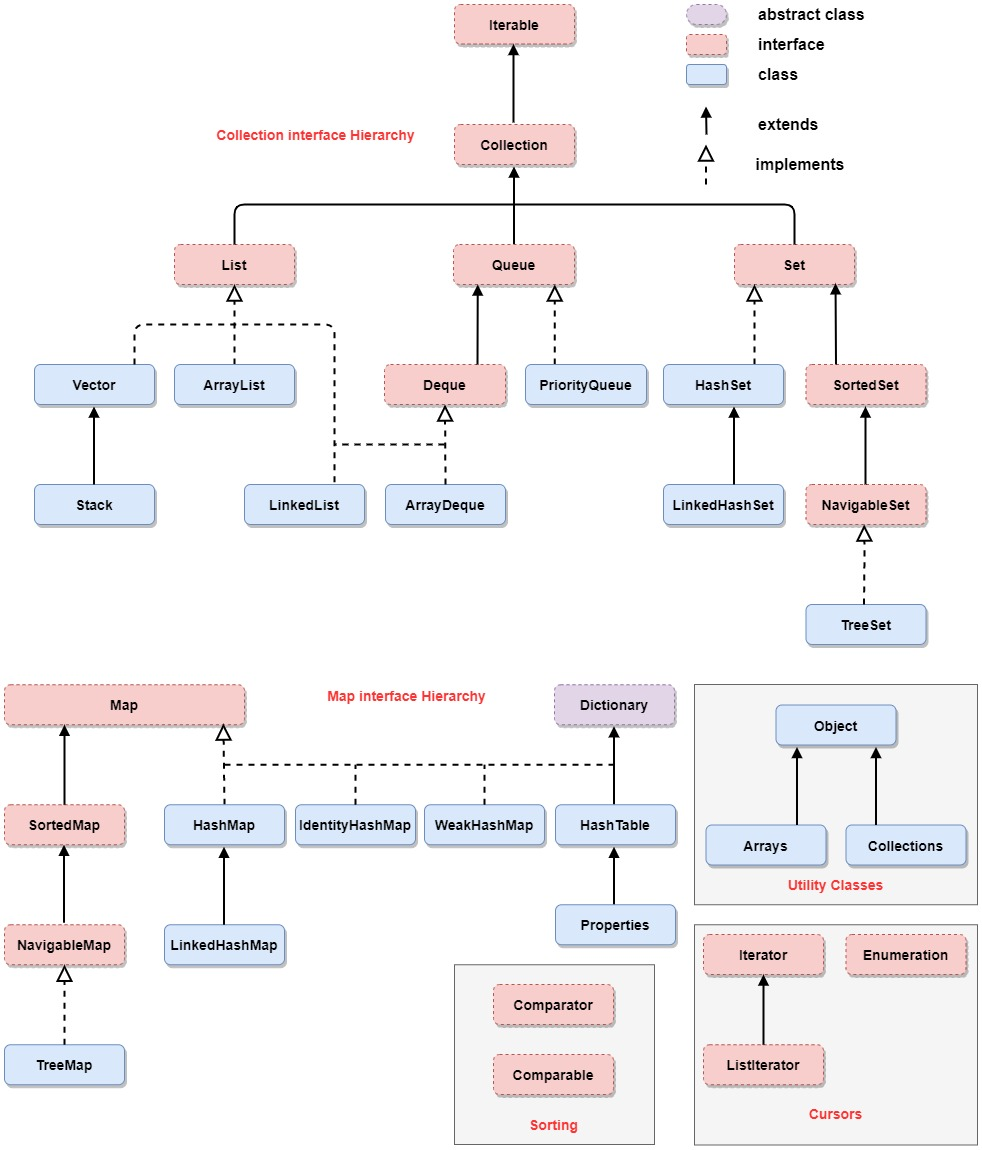
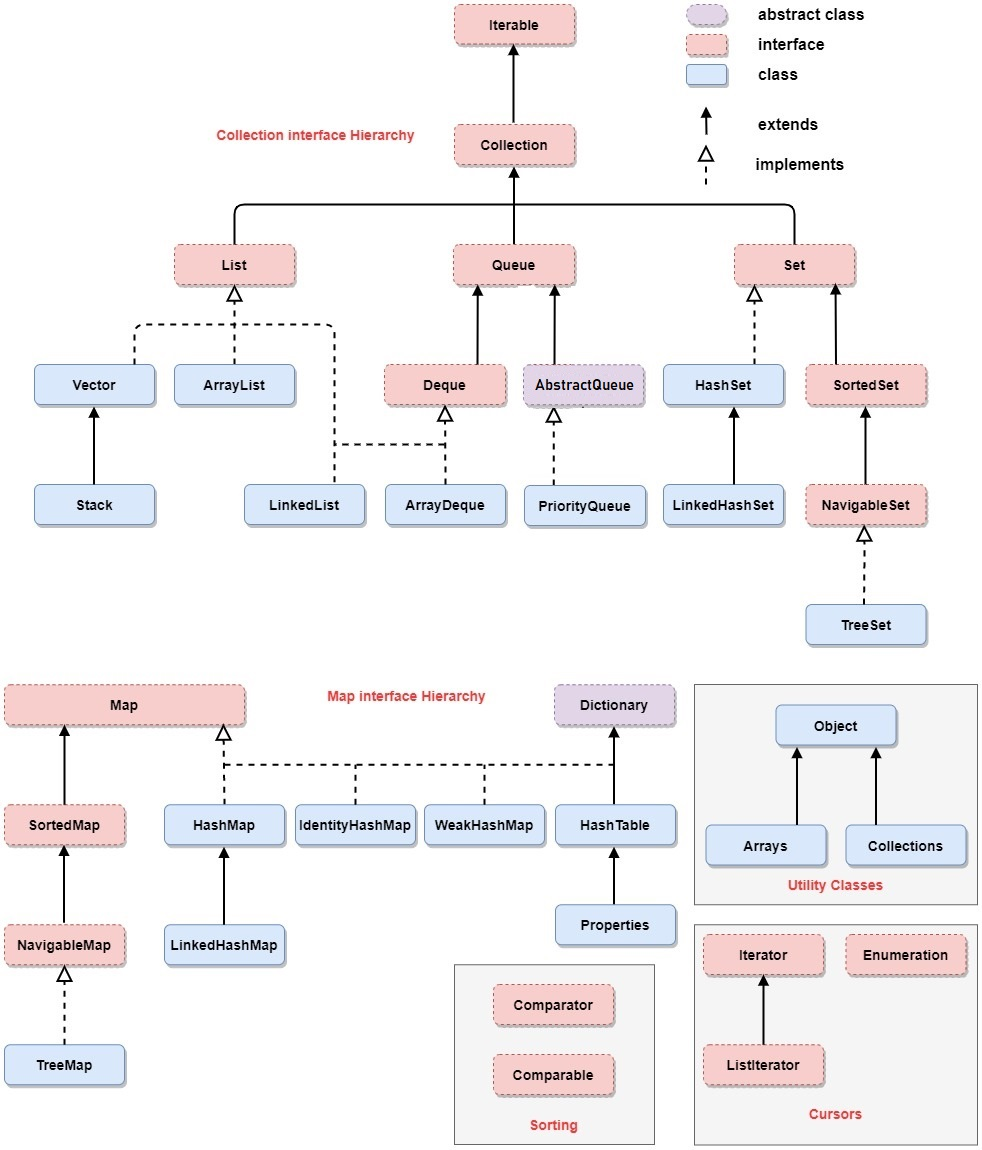
basic: collection queue

diff --git a/basics/core/src/main/java/collection/queue/abstactQueue/PriorityQueue.java b/basics/core/src/main/java/collection/queue/abstactQueue/PriorityQueue.java
@@ -1,0 +1,46 @@
+package collection.queue.abstactQueue;
+
+import java.util.AbstractQueue;
+
+/**
+ * PriorityQueue — это специальный вид очереди, в которой испоьзуется натуральная сортировка
+ * или та, которую мы описываем с помощью Comparable или Comparator.
+ * Таким образом используется тот элемент из очереди, приоритет которго выше.
+ *<p>
+ * Класс PriorityQueue был введен в Java 1.5 и является частью Java Collections Framework.
+ * PriorityQueue является неограниченной очередью.
+ * Элементы упорядочены по умолчанию в естественном порядке или же отсортированы с помощью компаратора.
+ * PriorityQueue не позволяет добавлять null-значения и non-comparable объекты.
+ * Размер приоритетной очереди (PriorityQueue) неограничен, но мы можем указать начальный размер в момент его создания.
+ * Когда мы добавляем элементы в приоритетную очередь, её размер увеличивается автоматически.
+ * PriorityQueue не является потобезопасной!
+ * Для этих целей в Java реализован класс PriorityBlockingQueue,
+ * реализующий интерфейс BlockingQueue. Именно он используется в многопоточной среде.
+ * В PriorityQueue добавление/удаление элементов происходит за время O(log(n)).
+ */
+
+public class PriorityQueue {
+   public static void main(String[] args) {
+      AbstractQueue<Integer> priorityQueue = new java.util.PriorityQueue<>();
+      priorityQueue.add(4);
+      priorityQueue.add(1);
+      priorityQueue.add(7);
+      priorityQueue.add(10);
+      priorityQueue.add(8);
+      System.out.println(priorityQueue.peek()); // 1
+      while (!priorityQueue.isEmpty()) System.out.print(priorityQueue.poll() + " "); // 1 4 7 8 10
+      System.out.println("\n");
+
+
+      // Изменение порядка вывода с помощью компаратора
+      AbstractQueue<Integer> queue = new java.util.PriorityQueue<>((o1, o2) -> o2 - o1);
+      queue.add(4);
+      queue.add(1);
+      queue.add(7);
+      queue.add(10);
+      queue.add(8);
+      System.out.println(queue.peek()); // 10
+      while (!queue.isEmpty()) System.out.print(queue.poll() + " "); // 10 8 7 4 1
+      System.out.println("\n");
+   }
+}

diff --git a/basics/core/src/main/java/collection/queue/abstactQueue/BlockingQueueSample.java b/basics/core/src/main/java/collection/queue/abstactQueue/BlockingQueueSample.java
@@ -1,0 +1,57 @@
+package collection.queue.abstactQueue;
+
+import java.util.concurrent.ArrayBlockingQueue;
+
+/**
+ * BlockingQueue - это очередь Queue со следующими дополнениями:
+ * Блокирующая операция take() - берет следующий элемент,
+ * если же очередь пустая - блокирует выполнение до появления элемента (до момента, когда перестанет быть пустой)
+ * Блокирующая операция put(E e) - помещает элемент в очередь,
+ * если очередь заполнена - блокирует выполнение до освобождения места в очереди и
+ * успешного помещения в нее нового элемента.
+ */
+public class BlockingQueueSample {
+   public static void main(String[] args) {
+      ArrayBlockingQueue<String> queue = new ArrayBlockingQueue<>(3);
+
+      Thread producer = new Thread(() -> {
+         String[] words = {"123", "abc", "qwerty", "queue", "stack", "array", "list"};
+         for (int i = 0; i < words.length && !Thread.interrupted();) {
+            try {
+               Thread.sleep(5000);
+               queue.put(words[i]);
+               System.out.println(
+                   "producer: queued up " + words[i] +
+                   ", number of elements in the queue: " + queue.size());
+               i++;
+            } catch (InterruptedException e) {
+               e.printStackTrace();
+            }
+         }
+      });
+
+      Thread consumer = new Thread(() -> {
+         StringBuilder sb = new StringBuilder();
+         while (!Thread.interrupted()) {
+            try {
+               sb.setLength(0);
+               Thread.sleep(8000);
+               sb.append(queue.take());
+               System.out.println(
+                   "consumer: processed from the queue " + sb.reverse() +
+                   ", number of elements in the queue: " + queue.size());
+            } catch (InterruptedException e) {
+               e.printStackTrace();
+            }
+         }
+      });
+
+      producer.start();
+      try {
+         Thread.sleep(5000);
+      } catch (InterruptedException e) {
+         e.printStackTrace();
+      }
+      consumer.start();
+   }
+}

diff --git a/basics/core/src/main/java/collection/README.md b/basics/core/src/main/java/collection/README.md
@@ -1,2 +1,2 @@
 # Java Collection Hierarchy
-![CollectionHierarchy](https://github.com/yurii-isaev/Beerhoven/assets/39811288/93e685f5-45b6-463d-9270-8c346e15f169)
+![CollectionHierarchy](https://github.com/yurii-isaev/Java-core/assets/39811288/b841388a-b50e-4675-abdf-c0f5ef7e7859)

diff --git a/basics/core/src/main/java/collection/queue/README.md b/basics/core/src/main/java/collection/queue/README.md
@@ -1,0 +1,2 @@
+# Java Queue Hierarchy
+![QueueHierarchy](https://github.com/yurii-isaev/Java-core/assets/39811288/9351c2e5-88c7-49bc-adf7-d656234ff43d)
